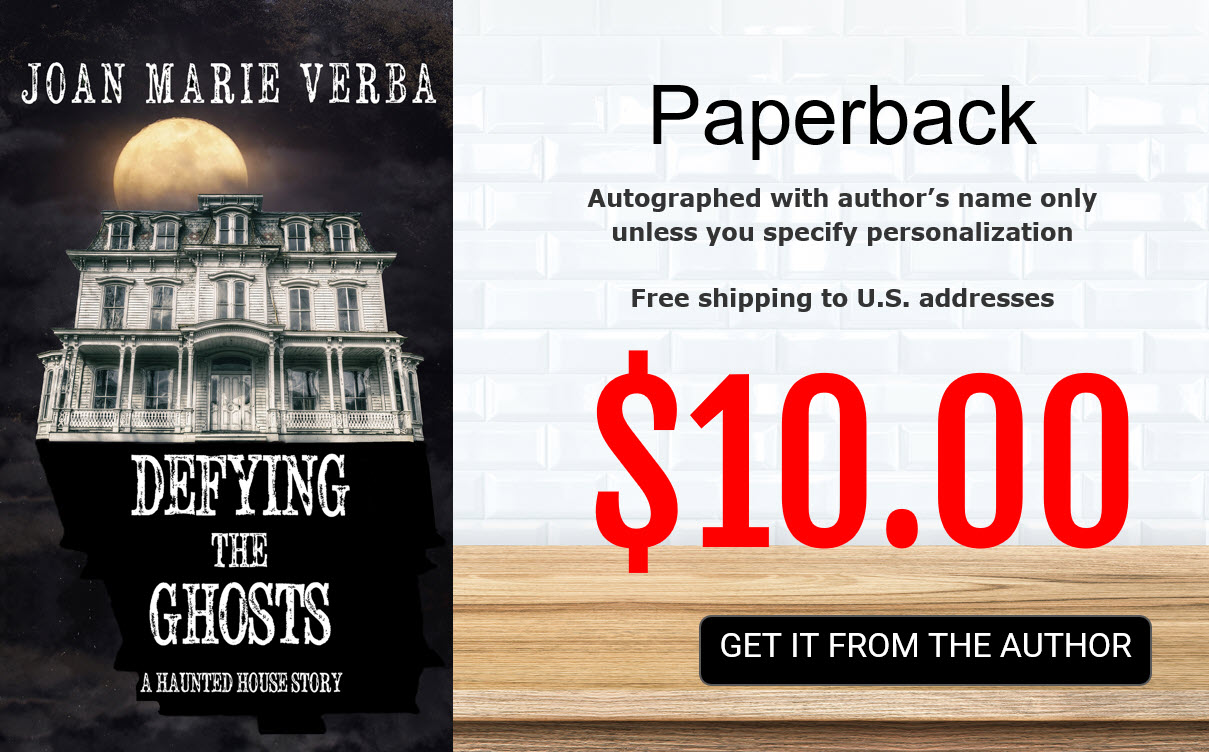
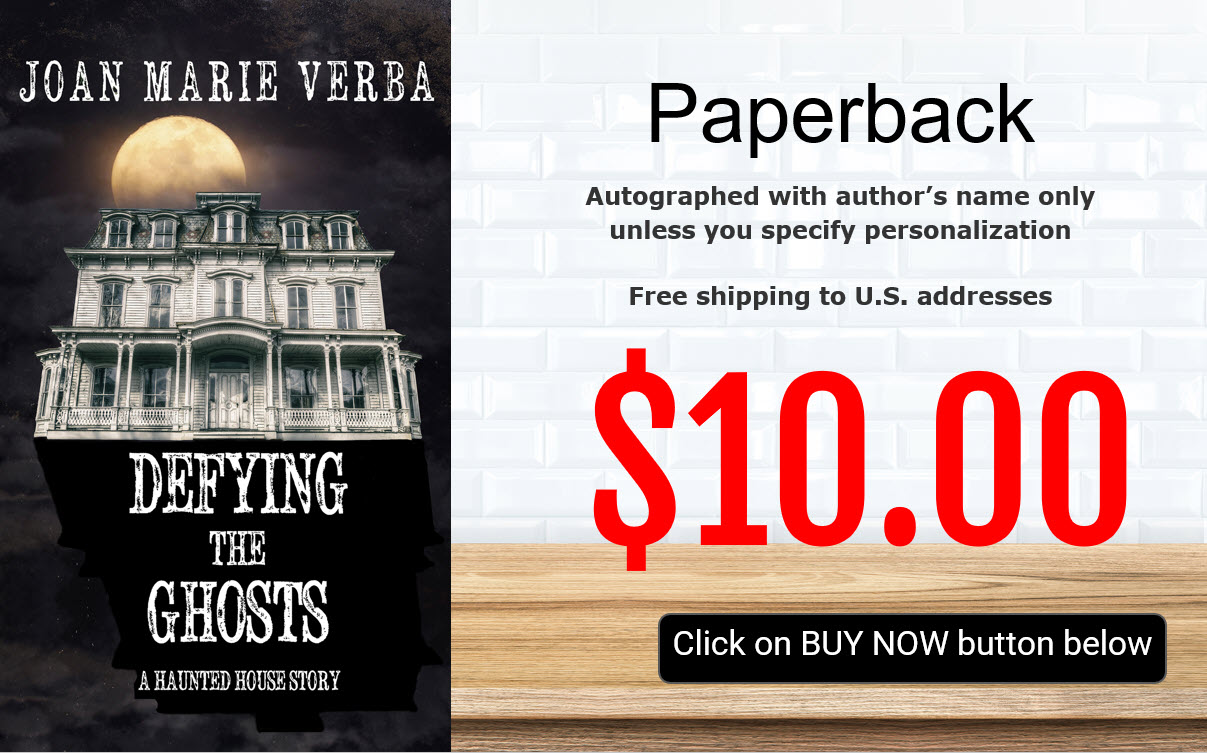
change slide

diff --git a/buy.html b/buy.html
@@ -96,16 +96,17 @@
 
                         <img src="./images/Sales-slide.jpg" width="500" height="250" alt="paperback $10 purchased from author" />
 
-                        <!-- <h4>Paperback: $10 (free shipping to U.S. addresses)</h4>
-                        <p>Autographed with author's name only unless you specify personalization</p> -->
+                      
 
-                        <form action="https://www.paypal.com/cgi-bin/webscr" method="post" target="_top">
-                            <input type="hidden" name="cmd" value="_s-xclick">
-                            <input type="hidden" name="hosted_button_id" value="VSQAW6XK6SJ5J">
-                            <input type="image" src="https://www.paypalobjects.com/en_US/i/btn/btn_buynowCC_LG.gif" border="0" name="submit"
-                                alt="PayPal - The safer, easier way to pay online!">
-                            <img alt="" border="0" src="https://www.paypalobjects.com/en_US/i/scr/pixel.gif" width="1" height="1">
-                        </form>
+                        <div class="vspace">
+                            <form action="https://www.paypal.com/cgi-bin/webscr" method="post" target="_top">
+                                <input type="hidden" name="cmd" value="_s-xclick">
+                                <input type="hidden" name="hosted_button_id" value="VSQAW6XK6SJ5J">
+                                <input type="image" src="https://www.paypalobjects.com/en_US/i/btn/btn_buynowCC_LG.gif" border="0" name="submit"
+                                    alt="PayPal - The safer, easier way to pay online!">
+                                <img alt="" border="0" src="https://www.paypalobjects.com/en_US/i/scr/pixel.gif" width="1" height="1">
+                            </form>
+                        </div>
 
                         <h4>or send a check payable to:</h4>
                             <ul>
@@ -113,7 +114,9 @@
                                 <li>P O Box 22693</li>
                                 <li>Minneapolis MN 55422</li>
                             </ul>
-                            <p>(Be sure to include the address to end the book to.)</p>
+                            <p>paperback is $10 (free shipping to U.S. addresses)<br/>
+                            Autographed with author's name only unless you specify personalization<br/>
+                            (Be sure to include the address to send the book to.)</p>
 
 
                         <h4>Ebook: $3.99 </h4>
